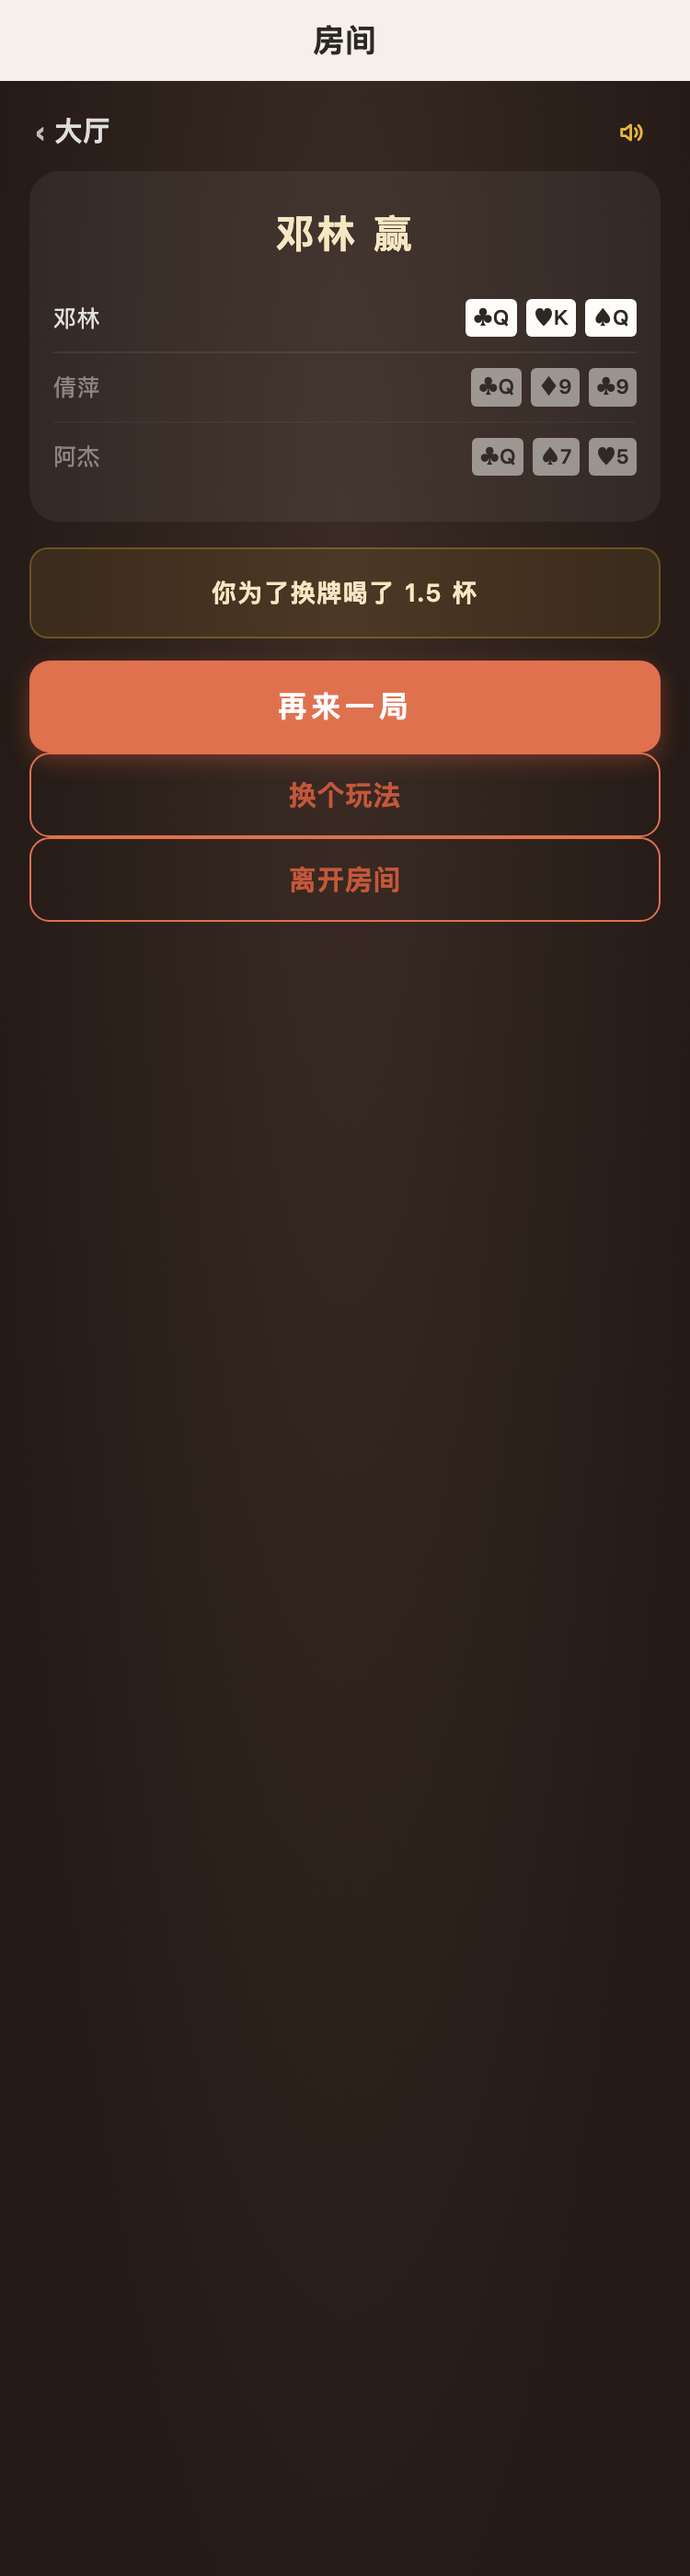
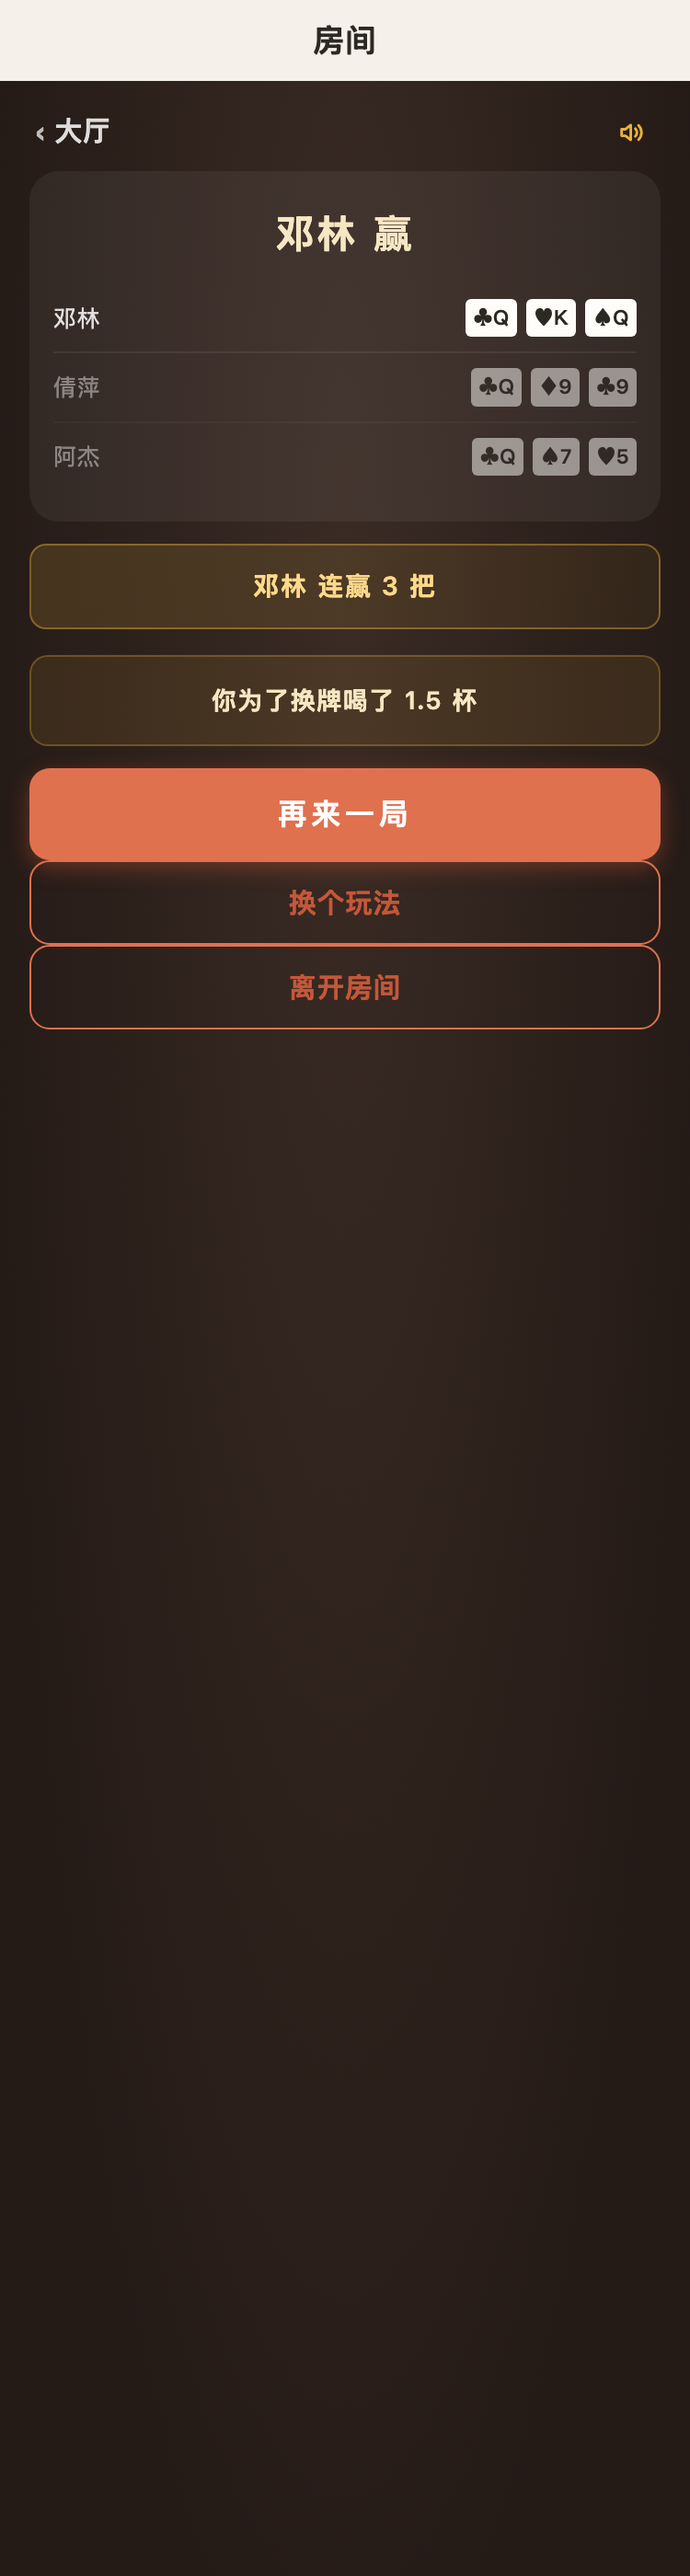
feat(3.8.0): 连庄记录覆盖大话骰与金花，并显示出来
## 现状

`streaks`（连赢计数）服务端一直在维护，但**只有比大小**在更新 ——
大话骰 / 金花 / 卧底从来不计。而这个字段的消费者（比大小的 combo 音效）
也只在那一处。

更关键的是：**界面从没显示过它**。酒桌上"他连赢三把了"是最能带动气氛的
一句话，却只躺在数据里。

## 做法

服务端抽出一个 helper：
```js
bumpStreaks(prev, players, isWinner)   // 谁赢由调用方给判据，这里只管记账
```
· 大话骰：只有一个人输，所以"除他以外都赢"
· 金花：只有最后站着的那个人赢（用**名字**判，因为 pkWinner 存的是名字）
· 比大小：保持原有的 total 最大判据

前端 decorate 里算成一句话 `room.streakText`（只在 ≥2 把时出现），
结算页单独一行、比"谁喝一杯"更高调（金色描边）。

⚠ 刻意**不加动效**：连庄是持续状态，不是一次性事件 ——
给它入场动画会让每局结算都"震一下"，反而吵。

多人房间 83 项断言全绿。

Changed region(s): [[0.0307, 0.2175, 0.9813, 0.4039]]

diff --git a/outputs/ui/room-pkOver.html b/outputs/ui/room-pkOver.html
@@ -304,7 +304,6 @@ view, text, button, input, textarea { box-sizing: border-box }
   font-size: 19px; font-weight: 700;
 }
 
-.phcode { font-size: 14px; font-weight: 400; letter-spacing: 0.5px; color: #A39B90 }
 
 .errbox {
   margin-top: 10px; padding: 10px 12px; border-radius: 9px;
@@ -374,7 +373,6 @@ view, text, button, input, textarea { box-sizing: border-box }
   background: rgba(255,255,255,.2);
 }
 .pdot.on { background: #6D9E6A; box-shadow: 0 0 0 2.5px rgba(109,158,106,.22) }
-.pstat { font-size: 10.5px; color: rgba(255,255,255,.4) }
 
 .waiting {
   text-align: center; padding: 15px;
@@ -388,12 +386,6 @@ view, text, button, input, textarea { box-sizing: border-box }
 .bid-val.hint { font-size: 13px; color: rgba(255,255,255,.4); font-weight: 400 }
 .bid-by { font-size: 10.5px; color: rgba(255,255,255,.35); margin-top: 4px }
 
-.minebox {
-  background: rgba(232,179,60,.1);
-  border: 1px solid rgba(232,179,60,.25);
-  border-radius: var(--r-2); padding: 12px; margin-bottom: 12px;
-}
-.mb-lbl { font-size: 10.5px; color: rgba(246,231,195,.6); margin-bottom: 8px }
 
 
 .dicebox { display: flex; flex-wrap: wrap; gap: 5px; align-items: center }
@@ -625,7 +617,6 @@ view, text, button, input, textarea { box-sizing: border-box }
   gap: 6px;
   padding-bottom: 2px;   
 }
-.optgrid { display: flex; flex-wrap: wrap; gap: 6px; margin-bottom: 10px }
 .optbtn {
   
   flex: none;
@@ -685,9 +676,6 @@ view, text, button, input, textarea { box-sizing: border-box }
 
 
 .center-box { display: flex; flex-direction: column; align-items: center; padding: 20px 5px }
-.bigicon { font-size: 50px; line-height: 1.2 }
-.ct-t { font-size: 19px; font-weight: 700; color: #F6E7C3; margin-top: 9px; letter-spacing: 1px }
-.ct-s { font-size: 12px; color: rgba(255,255,255,.5); line-height: 1.8; text-align: center; margin-top: 8px }
 
 .over-tag {
   font-size: 13px; padding: 4px 14px; border-radius: 499.5px; letter-spacing: 1px;
@@ -797,14 +785,6 @@ view, text, button, input, textarea { box-sizing: border-box }
 }
 
 
-.minebox .die {
-  animation: mineDieIn .38s cubic-bezier(.34, 1.56, .64, 1) backwards;
-}
-.minebox .die:nth-child(1) { animation-delay: .00s }
-.minebox .die:nth-child(2) { animation-delay: .06s }
-.minebox .die:nth-child(3) { animation-delay: .12s }
-.minebox .die:nth-child(4) { animation-delay: .18s }
-.minebox .die:nth-child(5) { animation-delay: .24s }
 @keyframes mineDieIn {
   0%   { opacity: 0; transform: rotateY(-180deg) scale(.5) }
   100% { opacity: 1; transform: rotateY(0deg) scale(1) }
@@ -885,13 +865,32 @@ view, text, button, input, textarea { box-sizing: border-box }
   line-height: 1.05; margin: 7px 0 5px;
   letter-spacing: -1px;
   text-shadow: 0 3px 15px rgba(232,179,60,.45);
-  
-  animation: cdPop .75s cubic-bezier(.22, 1.5, .5, 1) infinite;
 }
-@keyframes cdPop {
-  0%   { transform: scale(1.28); opacity: .55 }
-  22%  { transform: scale(1);    opacity: 1 }
+
+.cd-num.pop-a { animation: cdPopA .82s cubic-bezier(.22, 1.45, .5, 1) both }
+.cd-num.pop-b { animation: cdPopB .82s cubic-bezier(.22, 1.45, .5, 1) both }
+@keyframes cdPopA {
+  0%   { transform: scale(1.34); opacity: .4 }
+  26%  { transform: scale(.97);  opacity: 1 }
   100% { transform: scale(1);    opacity: 1 }
+}
+@keyframes cdPopB {
+  0%   { transform: scale(1.34); opacity: .4 }
+  26%  { transform: scale(.97);  opacity: 1 }
+  100% { transform: scale(1);    opacity: 1 }
+}
+
+
+.cd-num.go {
+  font-size: 60px;
+  color: #FFF3D6;
+  text-shadow: 0 0 20px rgba(255,210,140,.9), 0 4px 17px rgba(232,179,60,.6);
+  animation: cdGoBurst .5s cubic-bezier(.16, 1.3, .4, 1) both;
+}
+@keyframes cdGoBurst {
+  0%   { transform: scale(.72); opacity: 0 }
+  55%  { transform: scale(1.1); opacity: 1 }
+  100% { transform: scale(1);   opacity: 1 }
 }
 .cd-sub { font-size: 11.5px; color: rgba(255,255,255,.45); margin-top: 9px }
 
@@ -1455,13 +1454,6 @@ view, text, button, input, textarea { box-sizing: border-box }
 .uw-p.picked { animation: pickedPop .22s cubic-bezier(.3,1.5,.6,1) both }
 
 
-.uw-word {
-  transition: transform .14s ease-out, background .16s ease-out, box-shadow .16s ease-out;
-}
-.uw-word.on {
-  transform: scale(.985) translateY(-1px);
-  box-shadow: 0 0 0 2.5px rgba(160,120,220,.28), 0 6px 18px rgba(120,80,190,.35);
-}
 
 
 .settle-foot {
@@ -1475,6 +1467,141 @@ view, text, button, input, textarea { box-sizing: border-box }
   border-radius: 10px;
   letter-spacing: 0.5px;
   animation: slamIn .42s cubic-bezier(.2,.9,.3,1.18) both;
+}
+
+
+.howto {
+  margin-top: var(--gap-2);
+  padding: 13px 12px;
+  background: rgba(255,255,255,.05);
+  border: 1px solid rgba(255,255,255,.08);
+  border-radius: var(--r-2);
+}
+.ht-lbl {
+  font-size: 10.5px; color: rgba(232,179,60,.8);
+  letter-spacing: 1px; margin-bottom: 8px;
+}
+
+.ht-list { display: flex; flex-direction: column }
+.ht-item {
+  display: flex; align-items: flex-start; gap: 7px;
+  padding: 4px 0;
+}
+.ht-n {
+  width: 16px; height: 16px; flex: none;
+  display: flex; align-items: center; justify-content: center;
+  border-radius: 50%;
+  background: rgba(232,179,60,.18);
+  color: #E8B33C; font-size: 9px; font-weight: 700;
+  margin-top: 1.5px;
+}
+.ht-t {
+  flex: 1; font-size: 11.5px; line-height: 1.6;
+  color: rgba(255,255,255,.72);
+}
+
+
+.room-loading {
+  position: fixed; left: 0; right: 0; top: 0; bottom: 0;
+  z-index: 90;
+  display: flex; flex-direction: column;
+  align-items: center; justify-content: center; gap: 11px;
+  background: rgba(28, 22, 18, .93);
+  animation: fadeIn .2s ease;
+}
+.rl-dice {
+  position: relative;
+  width: 44px; height: 44px;
+  border-radius: 9px;
+  background: linear-gradient(145deg, #FFFDF9, #E8DED0);
+  box-shadow: 0 5px 13px rgba(0,0,0,.4);
+  animation: rlTumble 1.15s cubic-bezier(.45,.05,.55,.95) infinite;
+}
+@keyframes rlTumble {
+  0%   { transform: rotate(0deg) translateY(0) }
+  25%  { transform: rotate(90deg) translateY(-7px) }
+  50%  { transform: rotate(180deg) translateY(0) }
+  75%  { transform: rotate(270deg) translateY(-7px) }
+  100% { transform: rotate(360deg) translateY(0) }
+}
+
+.rl-face {
+  position: absolute; width: 7px; height: 7px; border-radius: 50%;
+  background: #C4573A;
+}
+.rl-f1 { left: 10px; top: 10px }
+.rl-f2 { left: 18.5px; top: 18.5px }
+.rl-f3 { right: 10px; bottom: 10px }
+.rl-t {
+  font-size: 13.5px; font-weight: 600; color: #F6E7C3; letter-spacing: 1px;
+}
+.rl-s { font-size: 10.5px; color: rgba(255,255,255,.4) }
+
+
+.nettip {
+  display: flex; align-items: center; justify-content: center; gap: 8px;
+}
+.nettip.down {
+  background: rgba(196, 67, 47, .16);
+  color: #F0A38C;
+  border: 1px solid rgba(196, 67, 47, .3);
+  animation: netFade .3s ease;
+}
+.nettip-retry {
+  flex: none;
+  padding: 3px 10px;
+  border-radius: 499.5px;
+  background: rgba(255,255,255,.14);
+  color: #fff;
+  font-size: 10px;
+  font-weight: 600;
+}
+.nettip-retry:active { opacity: .7 }
+
+
+.cc-share {
+  display: flex; align-items: center; justify-content: center;
+  width: 100%;
+  margin: 0 0 var(--gap-2);
+  padding: 13px 0;
+  background: rgba(255,255,255,.08);
+  border: 1px solid rgba(255,255,255,.14);
+  border-radius: 10px;
+  
+}
+.cc-share::after { border: none }
+.cc-share-t {
+  font-size: 13px; font-weight: 600;
+  color: rgba(255,255,255,.85);
+}
+.cc-share-on { background: rgba(255,255,255,.16) }
+
+
+.specbar {
+  display: flex; align-items: center; justify-content: center; gap: 6px;
+  padding: 9px 11px;
+  margin-bottom: var(--gap-2);
+  background: rgba(94, 127, 166, .14);
+  border: 1px solid rgba(94, 127, 166, .3);
+  border-radius: 8px;
+}
+.specbar-i { width: 15px; height: 15px; flex: none; opacity: .85 }
+.specbar-t { font-size: 11px; color: rgba(180, 205, 230, .95) }
+
+
+.streak-bar {
+  margin: 10px 0 0;
+  padding: 11px 12px;
+  text-align: center;
+  background: linear-gradient(100deg, rgba(232,179,60,.16), rgba(232,179,60,.06));
+  border: 1px solid rgba(232,179,60,.4);
+  border-radius: 9px;
+  animation: slamIn .42s cubic-bezier(.2,.9,.3,1.18) both;
+}
+.streak-t {
+  font-size: 14px; font-weight: 700;
+  color: #FFD98A;
+  letter-spacing: 0.5px;
 }
 
 </style>
@@ -1495,6 +1622,7 @@ view, text, button, input, textarea { box-sizing: border-box }
   </div>
 
   
+  
     
     <div class="pk-reveal">
       <div class="pkr-t">邓林 赢</div>
@@ -1514,6 +1642,8 @@ view, text, button, input, textarea { box-sizing: border-box }
           <span class="pkr-c">♣Q</span><span class="pkr-c">♠7</span><span class="pkr-c pk-red">♥5</span>
         </div>
       
+    </div><div class="streak-bar">
+      <span class="streak-t">邓林 连赢 3 把</span>
     </div><div class="settle-foot">你为了换牌喝了 1.5 杯</div><div class="btn main bigbtn">再来一局</div><div class="btn ghostb" style="margin-top:20rpx">换个玩法</div><div class="btn ghostb" style="margin-top:20rpx">离开房间</div>
   </div>
 

diff --git a/cloudfunctions/room/index.js b/cloudfunctions/room/index.js
@@ -227,6 +227,30 @@ function isStale(room) {
  * 给前端的房间视图。
  * ★ 关键：骰子按 openid 过滤 —— 别人的骰子不在响应里。
  */
+/**
+ * 更新连庄计数。
+ *
+ * ★ 原来只有「比大小」在算连赢，大话骰 / 金花 / 卧底从来不计 ——
+ *   而 `streaks` 这个字段一直在（比大小要它来放连击音效）。
+ *   现在收敛成一个 helper：**谁赢由调用方给判据**，这里只管记账。
+ *
+ * @param {object} prev 旧的 streaks（{ seat: count }）
+ * @param {Array} players 当前玩家
+ * @param {function} isWinner (player) => boolean
+ * @returns {{streaks: object, maxStreak: number}}
+ */
+function bumpStreaks(prev, players, isWinner) {
+  const streaks = {}
+  let maxStreak = 0
+  ;(players || []).forEach(p => {
+    const won = !!isWinner(p)
+    const n = won ? ((prev || {})[p.seat] || 0) + 1 : 0
+    streaks[p.seat] = n
+    if (n > maxStreak) maxStreak = n
+  })
+  return { streaks: streaks, maxStreak: maxStreak }
+}
+
 function shape(room, openid) {
   const players = (room.players || []).map(p => ({
     openid: p.openid,
@@ -922,8 +946,19 @@ exports.main = async (event) => {
       const players = (room.players || []).map(p =>
         p.seat === loserSeat ? Object.assign({}, p, { score: (p.score || 0) - 1 }) : p)
 
+      /* 大话骰只有一个人输，所以"除他以外都赢" */
+      const liarStreak = bumpStreaks(room.streaks, room.players,
+        (p) => p.seat !== loserSeat)
+      result.streaks = liarStreak.streaks
+      result.maxStreak = liarStreak.maxStreak
+
       await rooms.doc(room._id).update({
-        data: { players: players, phase: 'over', lastResult: result, updatedAt: ts }
+        data: {
+          players: players, phase: 'over', lastResult: result,
+          /* 连庄要跨局保留 —— 存在房间上而不是 result 里 */
+          streaks: liarStreak.streaks,
+          updatedAt: ts
+        }
       })
       const rr = await rooms.doc(room._id).get()
       return { ok: true, room: shape(rr.data, OPENID), result: result }
@@ -1513,6 +1548,14 @@ exports.main = async (event) => {
         patch.phase = 'over'
         patch.pkStep = 'result'
         patch.pkWinner = stillAlive.length ? stillAlive[0].name : ''
+        /*
+         * 金花：只有最后站着的那个人赢。
+         * ⚠ 用 **名字** 判而不是座位 —— pkwInner 存的是名字，
+         *    而这里 players 已经改过（out 标记），用名字更直接。
+         */
+        const pkStreak = bumpStreaks(room.streaks, room.players,
+          (p) => p.name === patch.pkWinner && p.inRound !== false)
+        patch.streaks = pkStreak.streaks
         patch.lastResult = {
           kind: 'poker',
           winner: patch.pkWinner,

diff --git a/miniprogram/pages/room/room.js b/miniprogram/pages/room/room.js
@@ -1034,6 +1034,27 @@ Page({
     room.overBy = Math.max(0, (room.count || 0) - room.maxPlayers)
 
     /*
+     * 连庄提示：找出"连赢 2 把以上"的人。
+     *
+     * ★ streaks 这个字段服务端一直在维护（比大小用它放连击音效），
+     *   但**界面从没显示过** —— 酒桌上"他连赢三把了"是最能带动气氛的一句话，
+     *   却只躺在数据里。现在算成一句话，放在结算页。
+     */
+    room.streakText = ''
+    {
+      const st = room.streaks || {}
+      let best = null
+      Object.keys(st).forEach((seat) => {
+        const n = Number(st[seat]) || 0
+        if (n < 2) return
+        if (best && n <= best.n) return
+        const p = (room.players || []).filter(x => String(x.seat) === String(seat))[0]
+        if (p) best = { name: p.name, n: n }
+      })
+      if (best) room.streakText = best.name + ' 连赢 ' + best.n + ' 把'
+    }
+
+    /*
      * 结算的"情绪收尾"：一句话说清这局谁最惨 / 发生了什么。
      * ★ 明细区已经展示了牌和骰子，这里只补**结论**，不重复数据。
      *   按玩法分别算，但都收敛到 room.settleFoot 一个字段 ——

diff --git a/scripts/test-contract.js b/scripts/test-contract.js
@@ -1122,7 +1122,7 @@ function ok(msg) { n++; console.log('  ✓ ' + msg) }
   const providedRoom = new Set(Object.keys(realRoom.room))
   /* 服务端算的派生字段也要算数（前端 decorate 会补这些） */
   /* 前端 decorate 算的派生字段：服务端不返回，但确实是前端自己赋值的 */
-  ;['myTurn', 'turnName', 'waitingCount', 'waitingNames', 'options', 'settleFoot', 'gameName', 'howList', 'spectating', 'shortBy', 'minPlayers', 'maxPlayers'].forEach(k => providedRoom.add(k))
+  ;['myTurn', 'turnName', 'waitingCount', 'waitingNames', 'options', 'settleFoot', 'gameName', 'howList', 'spectating', 'shortBy', 'minPlayers', 'maxPlayers', 'streakText'].forEach(k => providedRoom.add(k))
 
   const stripComments = (s) => s.replace(/<!--[\s\S]*?-->/g, '')
   /* 自己的递归遍历：④ 在顶层 walk/pagesDir 定义之前，不能复用它们 */

diff --git a/scripts/ui-render/mock/room.js b/scripts/ui-render/mock/room.js
@@ -191,6 +191,8 @@ module.exports = {
       room: pkRoom({
         game: 'poker', phase: 'over', host: true, turn: 0, myTurn: false, turnName: '',
         settleFoot: '你为了换牌喝了 1.5 杯',
+        streaks: { 1: 3, 2: 0, 3: 0 },
+        streakText: '邓林 连赢 3 把',
         lastResult: {
           kind: 'poker', winner: '邓林',
           winText: '邓林 赢',
